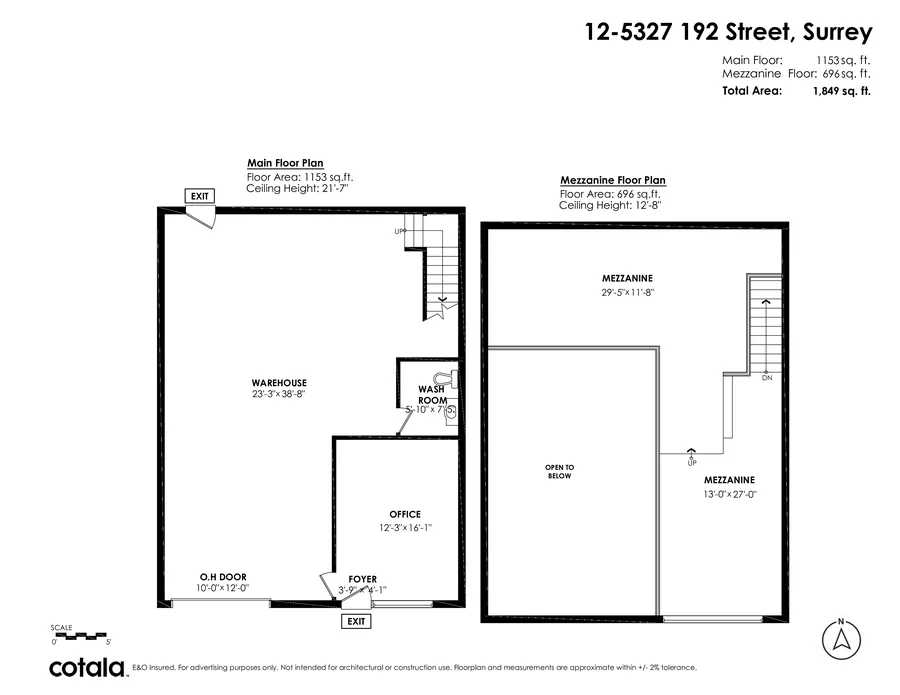
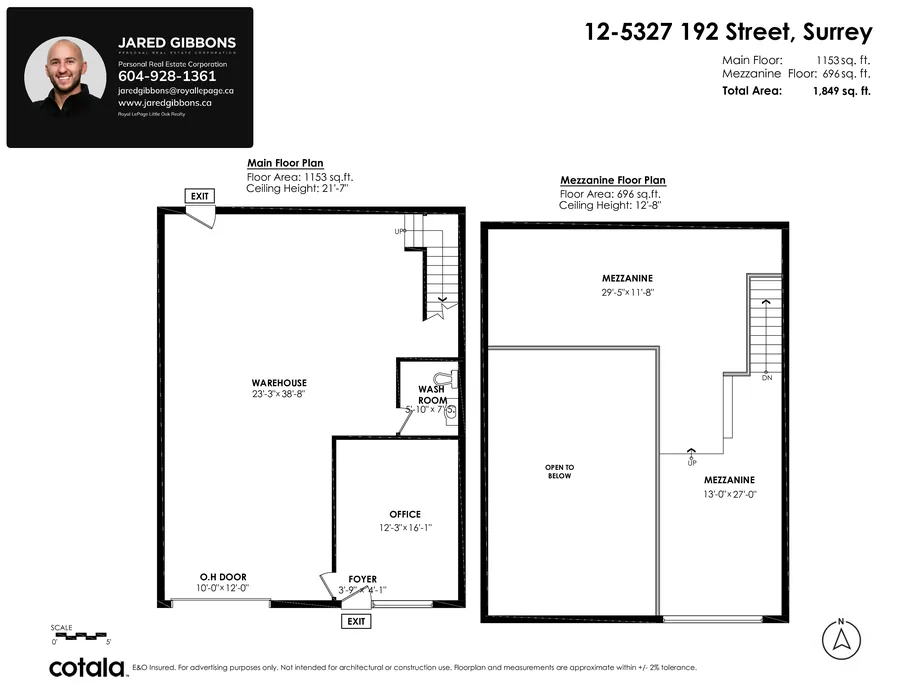
Floor plans for 12-5327 192 St and 2552 200 St: brokerage line now Royal LePage Little Oak Realty (D-272)
Claude-Session: https://claude.ai/code/session_01H2tW4hWYqdE5go3CKK93nK

Changed region(s): [[0.0, 0.0, 0.28, 0.2115]]

diff --git a/docs/04-decisions-and-exceptions.md b/docs/04-decisions-and-exceptions.md
@@ -1629,7 +1629,7 @@ Brief and per-item status: `docs/review/cx/`. Done in code:
 
 ## D-271 — 2026-11-13 — Floor plans, videos on 116 listings, two-step home evaluation, ten posts rewritten (Jared: "Can we please do all these")
 - Listing media: Jared's YouTube channel (150 videos) matched to listing pages by address: 116 listings now have their video (8 active from REALTOR.ca in D-269, the rest sold). Sold listings get "▶ Watch the video" beside "Ask about homes like this".
-- Floor plans: the Cotala floor plans from Drive (DEALS > 2026 Deals > Sellers 2026 > <listing> > Photos & FP) for the 9 active listings that have one, as public/img/floorplans/<mls>-900/-1800.webp, shown under the video with a "Floor plan" button on the first screen. The branded version is used where its card names Royal LePage Little Oak; the 12-5327 192 St and 2552 200 St branded copies name the old brokerage, so the plain versions are used. No floor plan in Drive for 16216 20 Ave or 116 Calgary Ave.
+- Floor plans: the Cotala floor plans from Drive (DEALS > 2026 Deals > Sellers 2026 > <listing> > Photos & FP) for the 9 active listings that have one, as public/img/floorplans/<mls>-900/-1800.webp, shown under the video with a "Floor plan" button on the first screen. The branded versions are used. The 12-5327 192 St and 2552 200 St cards named the old brokerage (Royal LePage Northstar Realty); at Jared's request (D-272) that line was replaced with "Royal LePage Little Oak Realty", taken from the 6469 Meadow Place card at the same size, and the edited copies were sent to Jared. No floor plan in Drive for 16216 20 Ave or 116 Calgary Ave.
 - 3D tours: none public. Cotala scans with Matterport for its floor plans, but the one model linked in email (96-15500 Rosemary Heights) says "model not available" to the public. Jared to ask Cotala for public 3D links (or order the 3D tour); `tour3d` in listing-media.json is ready.
 - Home evaluation form: two steps (FormStub, kind home-evaluation): 1. address and city, "Next: where should I send it?"; 2. name, email, phone (optional), with "+ Add your home's details (optional)" for the rest and "← Change the address". Without JavaScript all fields show, as before. The Worker's required fields (name, email, address) are unchanged.
 - Blog: ten short posts rewritten with current, sourced facts (content/post-rewrites/*.md → tools/build_post_rewrites.py → src/data/post-rewrites.json): South Surrey 3-bed townhomes under $800K, condos under $420K, South Surrey neighbourhood-by-neighbourhood, Surrey-Langley SkyTrain 2026, Ta'talu Elementary, 20 Avenue overpass of Highway 99, the former Gabby's site (plan cancelled May 2, 2025), Xw'epiteng Elementary, Fraser Valley housing targets, 116 Calgary Ave. Each keeps its URL; new title, description and H1; "Updated <date>" in the byline and dateModified; the generic area section (D-267) is dropped for them.
